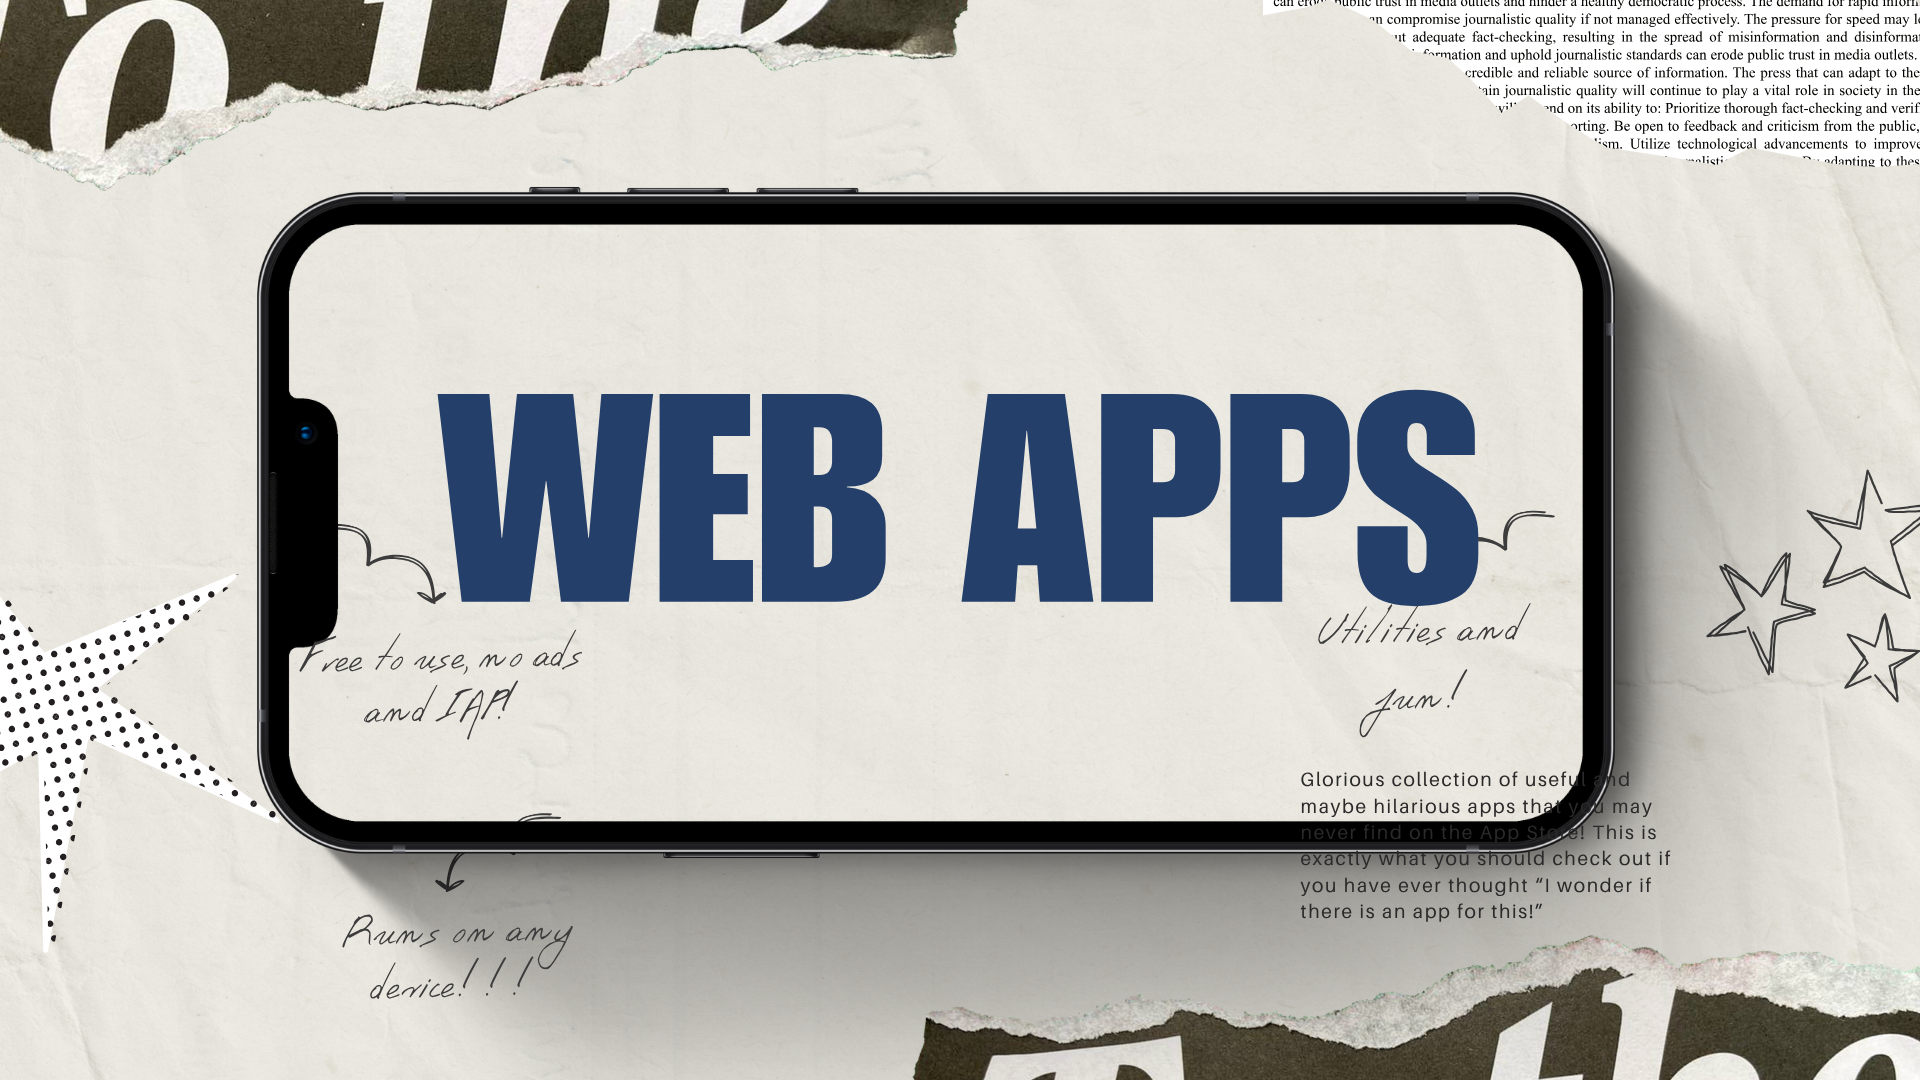
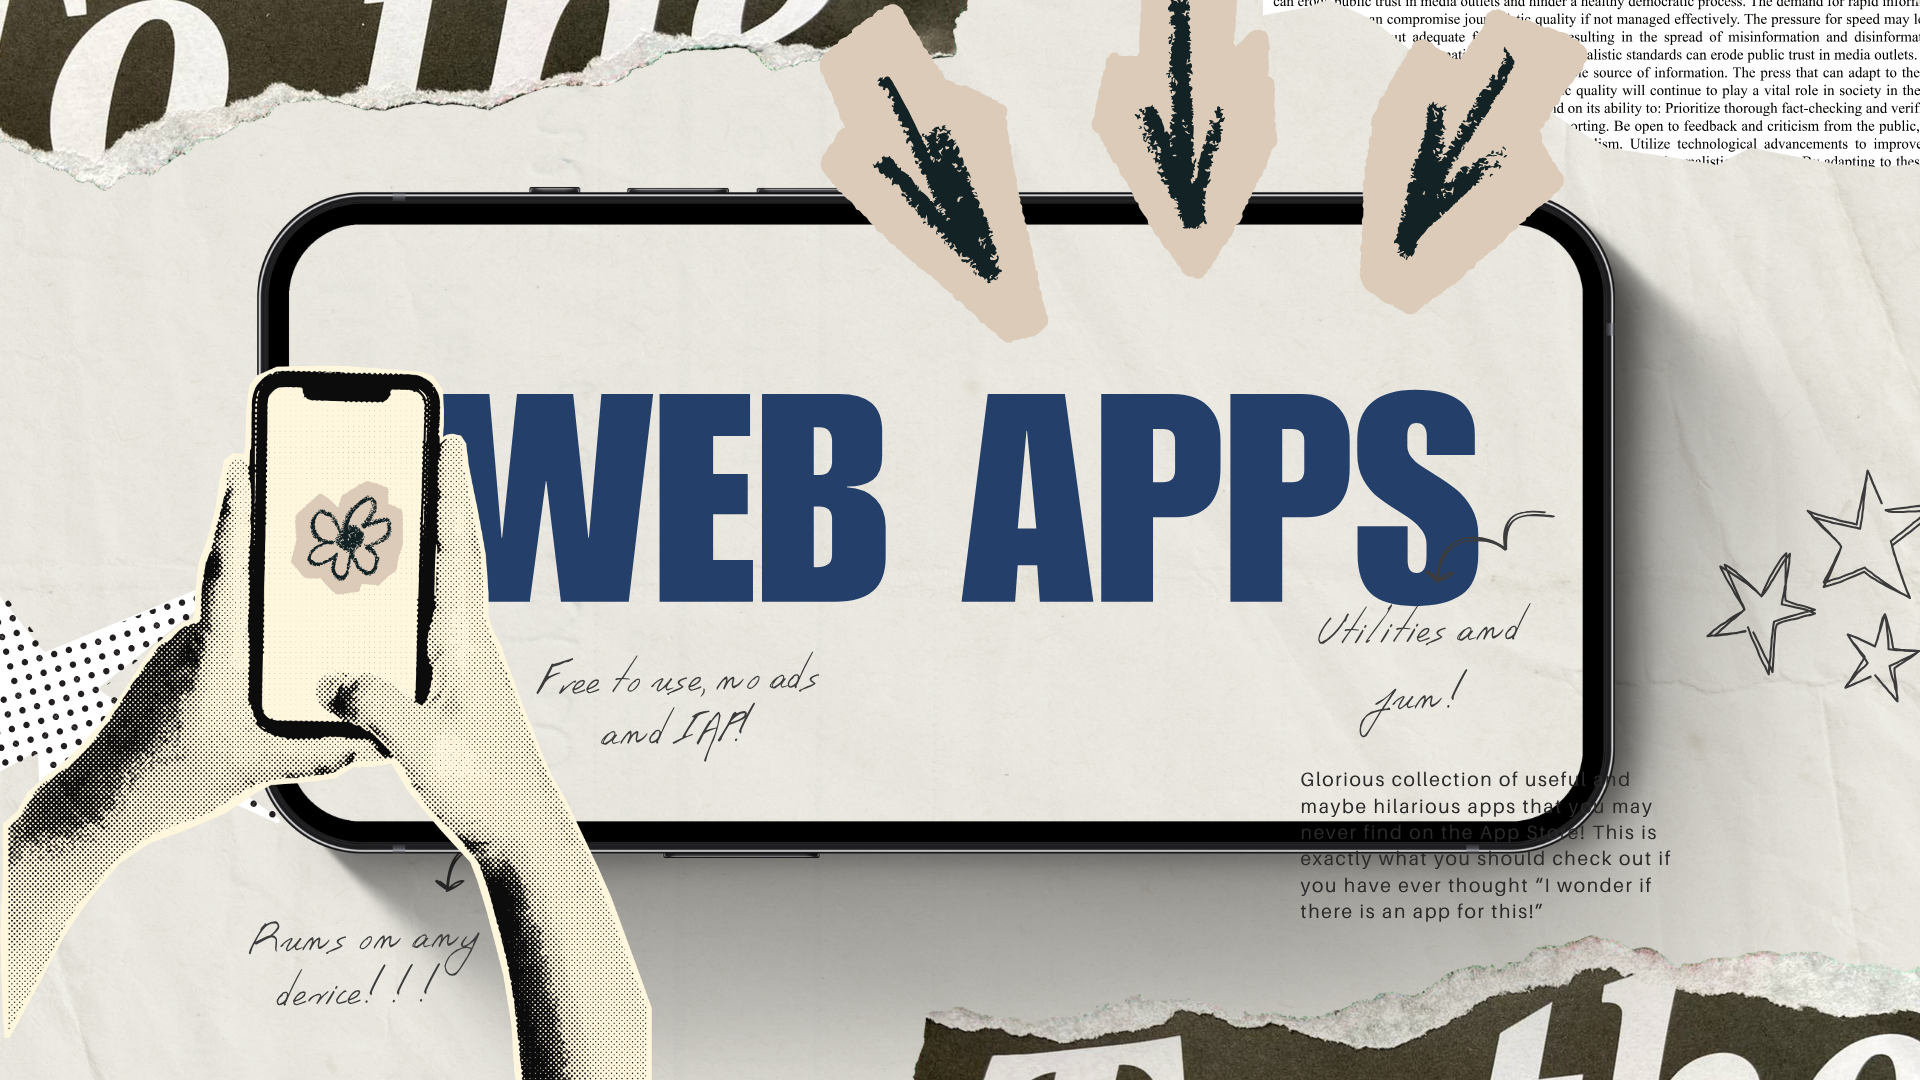
Add all 5 card images for main menu nav
Replaces About Me, Instructional Design, and Web Apps card images with
new designs. Adds My Work and Downloads images (previously missing).
Also registers my-work and downloads in CARD_IMAGE_MAP so their
textures are pre-fetched and applied to the 3D nav cards.

Claude-Session: https://claude.ai/code/session_01EpWNU9y86aSfkqvNm2RSHe

diff --git a/experience/NavPlane.ts b/experience/NavPlane.ts
@@ -15,7 +15,9 @@ import type { NavItem } from '~/types/nav'
 const CARD_IMAGE_MAP: Record<string, string> = {
   'about':                '/about-me.png',
   'instructional-design': '/instructional-design.png',
+  'my-work':              '/my-work.png',
   'tools':                '/web-apps.png',
+  'downloads':            '/downloads.png',
 }
 const _imageCache = new Map<string, HTMLImageElement>()
 if (typeof document !== 'undefined') {